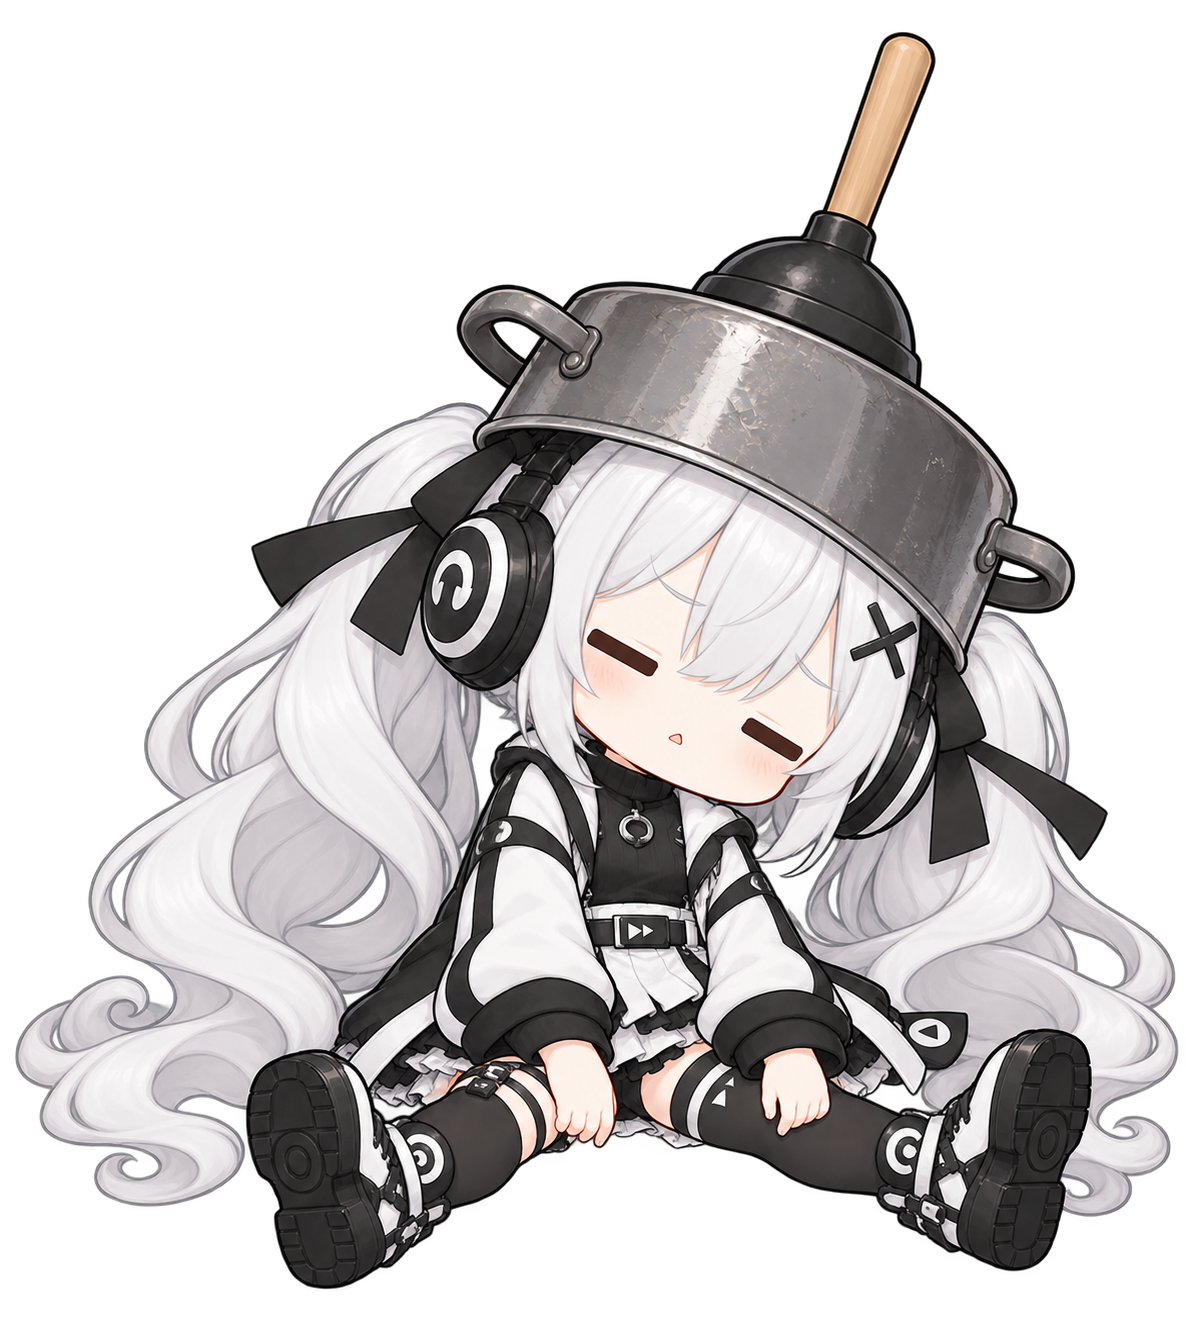
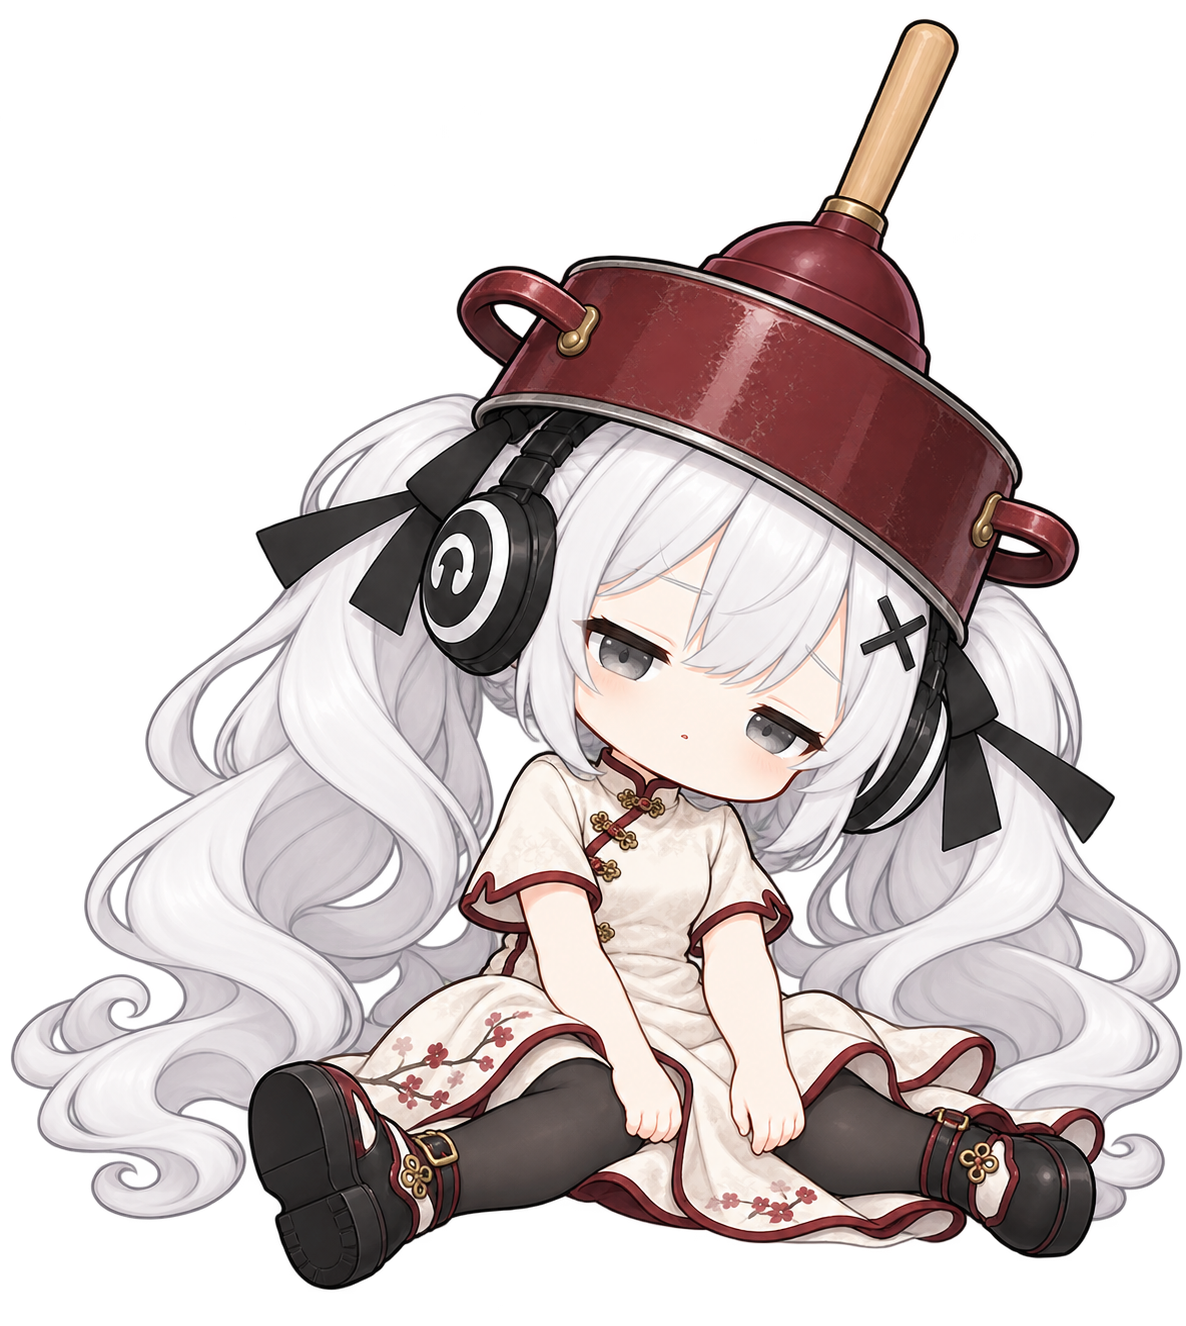
Give automation mascots coordinated country-inspired outfits

diff --git a/README.ru.md b/README.ru.md
@@ -35,7 +35,7 @@ Windows 10 2004+ / Windows 11 · x64 / ARM64 (экспериментально) 
 
 ## 🎮 На каждый день
 
-<a href="https://github.com/kunkunkunQoQ/SonicRoute/wiki/04-%E8%87%AA%E5%8A%A8%E5%8C%96%E8%A7%84%E5%88%99" title="Автоматизация"><img src="docs/images/mascot-automation.png" width="48" align="middle" alt="Нажмите на маленького робота, чтобы узнать о правилах автоматизации"></a> Настройте игру так, чтобы при запуске она переключалась на наушники, или сохраните несколько действий в одном правиле. [Настроить автоматизацию](https://github.com/kunkunkunQoQ/SonicRoute/wiki/04-%E8%87%AA%E5%8A%A8%E5%8C%96%E8%A7%84%E5%88%99).
+<a href="https://github.com/kunkunkunQoQ/SonicRoute/wiki/04-%E8%87%AA%E5%8A%A8%E5%8C%96%E8%A7%84%E5%88%99" title="Автоматизация"><img src="docs/images/mascot-automation-ru.png" width="48" align="middle" alt="Нажмите на маленького робота, чтобы узнать о правилах автоматизации"></a> Настройте игру так, чтобы при запуске она переключалась на наушники, или сохраните несколько действий в одном правиле. [Настроить автоматизацию](https://github.com/kunkunkunQoQ/SonicRoute/wiki/04-%E8%87%AA%E5%8A%A8%E5%8C%96%E8%A7%84%E5%88%99).
 
 | Ваша ситуация | Что можно сделать |
 |---|---|

diff --git a/README.de.md b/README.de.md
@@ -35,7 +35,7 @@ Windows 10 2004+ / Windows 11 · x64 / ARM64 (experimentell) · Neun Sprachen ·
 
 ## 🎮 Für den Alltag
 
-<a href="https://github.com/kunkunkunQoQ/SonicRoute/wiki/04-%E8%87%AA%E5%8A%A8%E5%8C%96%E8%A7%84%E5%88%99" title="Automatisierung"><img src="docs/images/mascot-automation.png" width="48" align="middle" alt="Klicke auf den kleinen Roboter, um mehr über Automatisierungsregeln zu erfahren"></a> Stelle ein Spiel beim Start auf dein Headset um oder speichere mehrere Aktionen als eine Regel. [Automatisierung einrichten](https://github.com/kunkunkunQoQ/SonicRoute/wiki/04-%E8%87%AA%E5%8A%A8%E5%8C%96%E8%A7%84%E5%88%99).
+<a href="https://github.com/kunkunkunQoQ/SonicRoute/wiki/04-%E8%87%AA%E5%8A%A8%E5%8C%96%E8%A7%84%E5%88%99" title="Automatisierung"><img src="docs/images/mascot-automation-de.png" width="48" align="middle" alt="Klicke auf den kleinen Roboter, um mehr über Automatisierungsregeln zu erfahren"></a> Stelle ein Spiel beim Start auf dein Headset um oder speichere mehrere Aktionen als eine Regel. [Automatisierung einrichten](https://github.com/kunkunkunQoQ/SonicRoute/wiki/04-%E8%87%AA%E5%8A%A8%E5%8C%96%E8%A7%84%E5%88%99).
 
 | Deine Situation | Das kannst du tun |
 |---|---|

diff --git a/README.ko.md b/README.ko.md
@@ -35,7 +35,7 @@ Windows 10 2004+ / Windows 11 · x64 / ARM64 (실험적) · 인터페이스 9개
 
 ## 🎮 일상적인 활용
 
-<a href="https://github.com/kunkunkunQoQ/SonicRoute/wiki/04-%E8%87%AA%E5%8A%A8%E5%8C%96%E8%A7%84%E5%88%99" title="자동화"><img src="docs/images/mascot-automation.png" width="48" align="middle" alt="작은 로봇을 클릭해 자동화 규칙 알아보기"></a> 게임을 시작할 때 헤드셋으로 자동 전환하거나, 여러 작업을 하나의 규칙으로 저장할 수 있습니다. [자동화 설정](https://github.com/kunkunkunQoQ/SonicRoute/wiki/04-%E8%87%AA%E5%8A%A8%E5%8C%96%E8%A7%84%E5%88%99).
+<a href="https://github.com/kunkunkunQoQ/SonicRoute/wiki/04-%E8%87%AA%E5%8A%A8%E5%8C%96%E8%A7%84%E5%88%99" title="자동화"><img src="docs/images/mascot-automation-kr.png" width="48" align="middle" alt="작은 로봇을 클릭해 자동화 규칙 알아보기"></a> 게임을 시작할 때 헤드셋으로 자동 전환하거나, 여러 작업을 하나의 규칙으로 저장할 수 있습니다. [자동화 설정](https://github.com/kunkunkunQoQ/SonicRoute/wiki/04-%E8%87%AA%E5%8A%A8%E5%8C%96%E8%A7%84%E5%88%99).
 
 | 사용 상황 | 할 수 있는 작업 |
 |---|---|

diff --git a/README.es.md b/README.es.md
@@ -35,7 +35,7 @@ Windows 10 2004+ / Windows 11 · x64 / ARM64 (experimental) · Nueve idiomas de 
 
 ## 🎮 Para el día a día
 
-<a href="https://github.com/kunkunkunQoQ/SonicRoute/wiki/04-%E8%87%AA%E5%8A%A8%E5%8C%96%E8%A7%84%E5%88%99" title="Automatización"><img src="docs/images/mascot-automation.png" width="48" align="middle" alt="Haz clic en el pequeño robot para conocer las reglas de automatización"></a> Haz que un juego use los auriculares al iniciarse o guarda varias acciones en una sola regla. [Configurar automatización](https://github.com/kunkunkunQoQ/SonicRoute/wiki/04-%E8%87%AA%E5%8A%A8%E5%8C%96%E8%A7%84%E5%88%99).
+<a href="https://github.com/kunkunkunQoQ/SonicRoute/wiki/04-%E8%87%AA%E5%8A%A8%E5%8C%96%E8%A7%84%E5%88%99" title="Automatización"><img src="docs/images/mascot-automation-es.png" width="48" align="middle" alt="Haz clic en el pequeño robot para conocer las reglas de automatización"></a> Haz que un juego use los auriculares al iniciarse o guarda varias acciones en una sola regla. [Configurar automatización](https://github.com/kunkunkunQoQ/SonicRoute/wiki/04-%E8%87%AA%E5%8A%A8%E5%8C%96%E8%A7%84%E5%88%99).
 
 | Tu situación | Lo que puedes hacer |
 |---|---|

diff --git a/README.en.md b/README.en.md
@@ -35,7 +35,7 @@ Windows 10 2004+ / Windows 11 · x64 / ARM64 (experimental) · Nine languages ·
 
 ## 🎮 Everyday uses
 
-<a href="https://github.com/kunkunkunQoQ/SonicRoute/wiki/04-%E8%87%AA%E5%8A%A8%E5%8C%96%E8%A7%84%E5%88%99" title="Automation"><img src="docs/images/mascot-automation.png" width="48" align="middle" alt="Click the little robot to learn about automation rules"></a> Set a game to use your headset when it starts, or save several actions as one rule. [Set up automation](https://github.com/kunkunkunQoQ/SonicRoute/wiki/04-%E8%87%AA%E5%8A%A8%E5%8C%96%E8%A7%84%E5%88%99).
+<a href="https://github.com/kunkunkunQoQ/SonicRoute/wiki/04-%E8%87%AA%E5%8A%A8%E5%8C%96%E8%A7%84%E5%88%99" title="Automation"><img src="docs/images/mascot-automation-gb.png" width="48" align="middle" alt="Click the little robot to learn about automation rules"></a> Set a game to use your headset when it starts, or save several actions as one rule. [Set up automation](https://github.com/kunkunkunQoQ/SonicRoute/wiki/04-%E8%87%AA%E5%8A%A8%E5%8C%96%E8%A7%84%E5%88%99).
 
 | Your situation | What you can do |
 |---|---|
